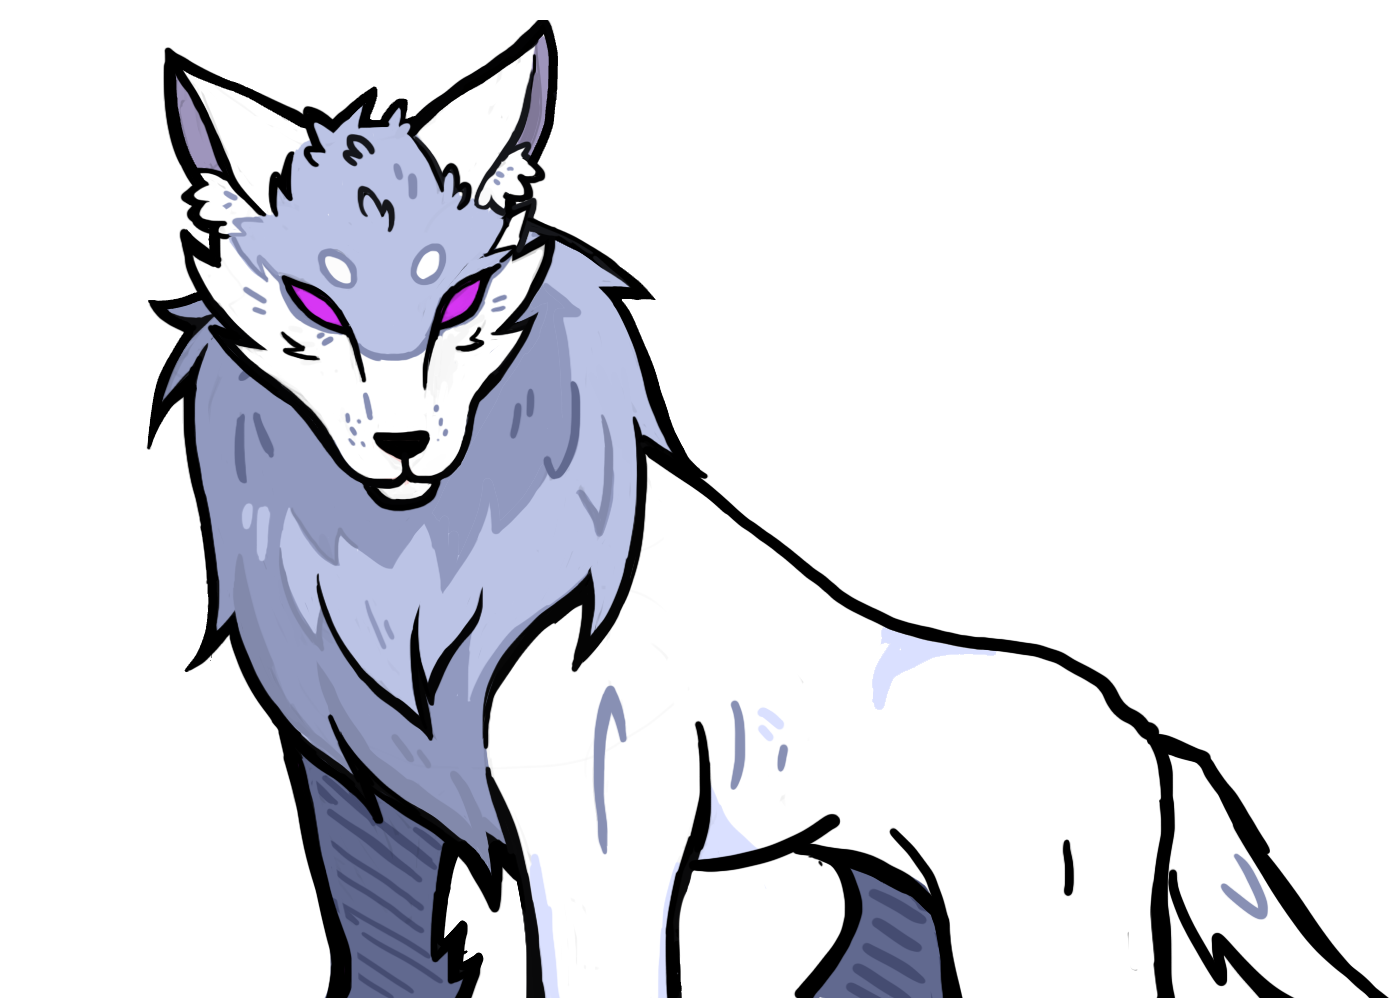
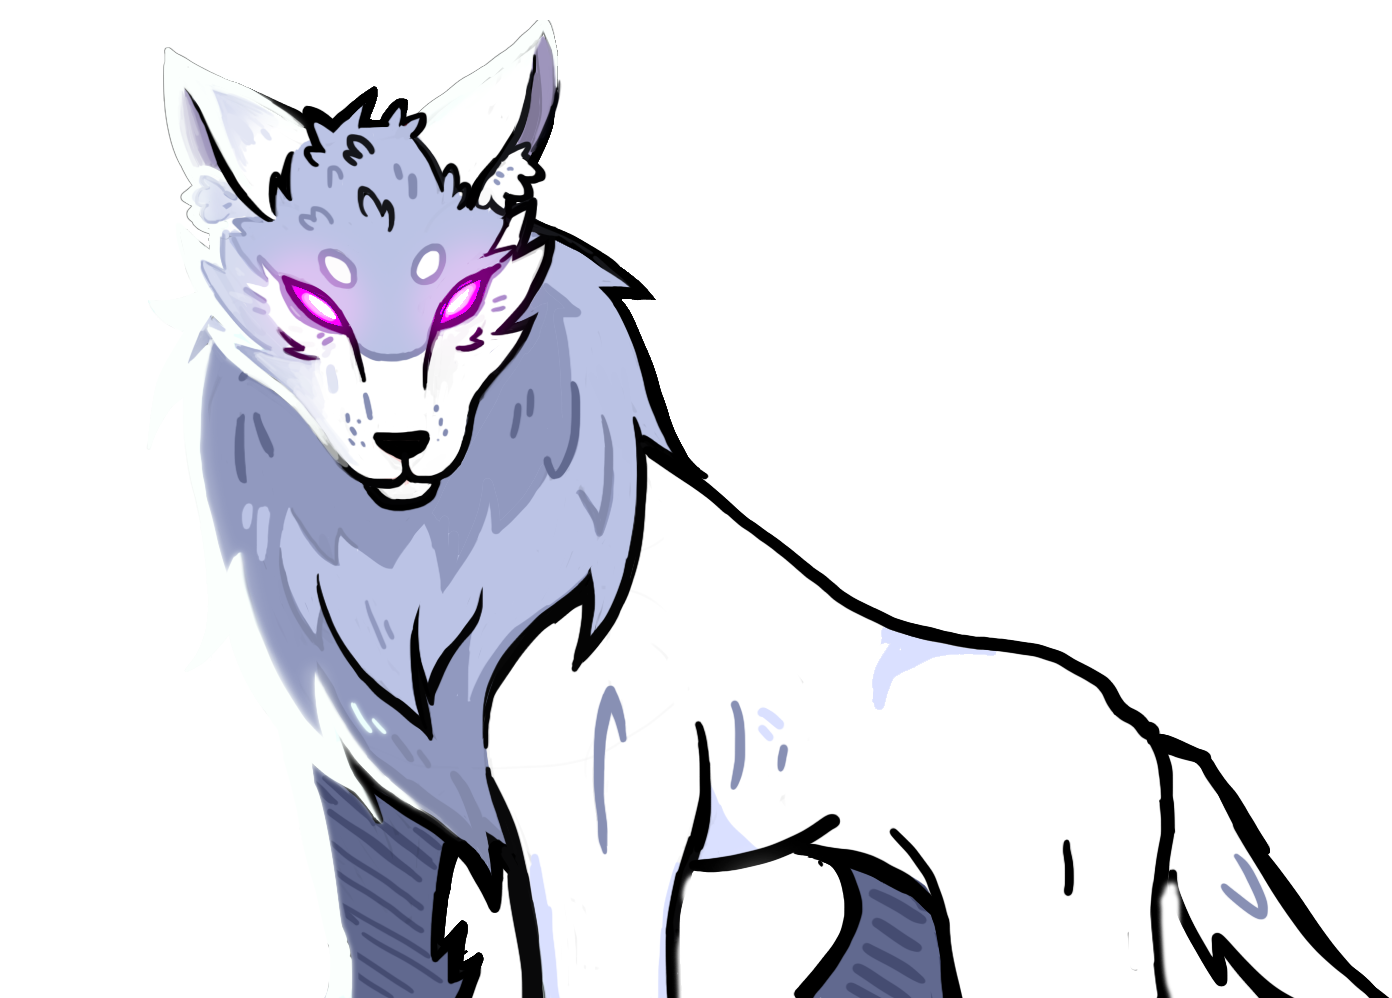
v3

diff --git a/red/red.html b/red/red.html
@@ -79,7 +79,7 @@
           #roja_title_img{ width: 40%;}
          }
       </style>
-      <button onclick="myFunction()">Click me</button>
+      <button onclick="myFunction()"> Iniciar </button>
       
     </div>
    
@@ -141,6 +141,7 @@
 
 var imagenes_a_cargar = [
    "red.png", 
+   "red22.png",
    "animatic.png",
    "animatic2.png",
    "lobo3.png",
@@ -267,7 +268,7 @@ function myFunction() {
         //document.getElementById("personajes").innerHTML = "<img src=\"img/red3.png\"  style=\" height: 150px; width: auto;\" >"
         //let newPersonaje = `<div class='personaje' style='--h: ${dynamicHeight}px' ><img class="animate__animated animate__fadeInRight"   src="https://julif.github.io/red/Nueva%20carpeta%20(2)/red3.png" style="height: 100%;width: auto;"></div>`;    
        // document.getElementById("personajes").innerHTML = "<img src=\"img/red3.png\"  style=\" height: 150px; width: auto;\" >"
-        newPersonaje = `<div class='personaje' style='--h: ${dynamicHeight}px' ><img class="animate__animated animate__fadeInRight"   src="img/red.png" style="height: 100%;width: auto;"></div>`;   
+        newPersonaje = `<div class='personaje' style='--h: ${dynamicHeight}px' ><img class="animate__animated animate__fadeInRight"   src="img/red22.png" style="height: 100%;width: auto;"></div>`;   
         //newPersonaje = `<div class='personaje' style='--h: ${dynamicHeight}px;' ><img class="animate__animated animate__fadeInLeft"   src="img/lobo3.png" style="height: 100%;width: auto;"></div>`;   
         nombre="- bunny -";
         dialogo = "ohh!! espero que nada inesperado se cruze en mi camino por que tengo que llevarle esta canasta con comida a mi abuela.";

diff --git a/red/style.css b/red/style.css
@@ -22,6 +22,8 @@
 
 
 
+
+
     #splash {
       /* background-color: #28334a; */
       background-color: black!important;
@@ -464,4 +466,23 @@ opacity: 1;
 
 #contenedor:-webkit-full-screen >  #landscape #full #tooltip {
     display: none;
+}
+
+
+
+
+
+#landing button {
+  color: white;
+  border: 2px solid white;
+  padding: 8px;
+  margin: 1%;
+  font-size: 1.5vw;
+  letter-spacing: 2.5px;
+  font-kerning: none;
+  font-weight: 600;
+  cursor: pointer;
+  background-color: #0b0a10;
+  font-family: "julif Handwriting";
+  font-size: 2.5vw;
 }
